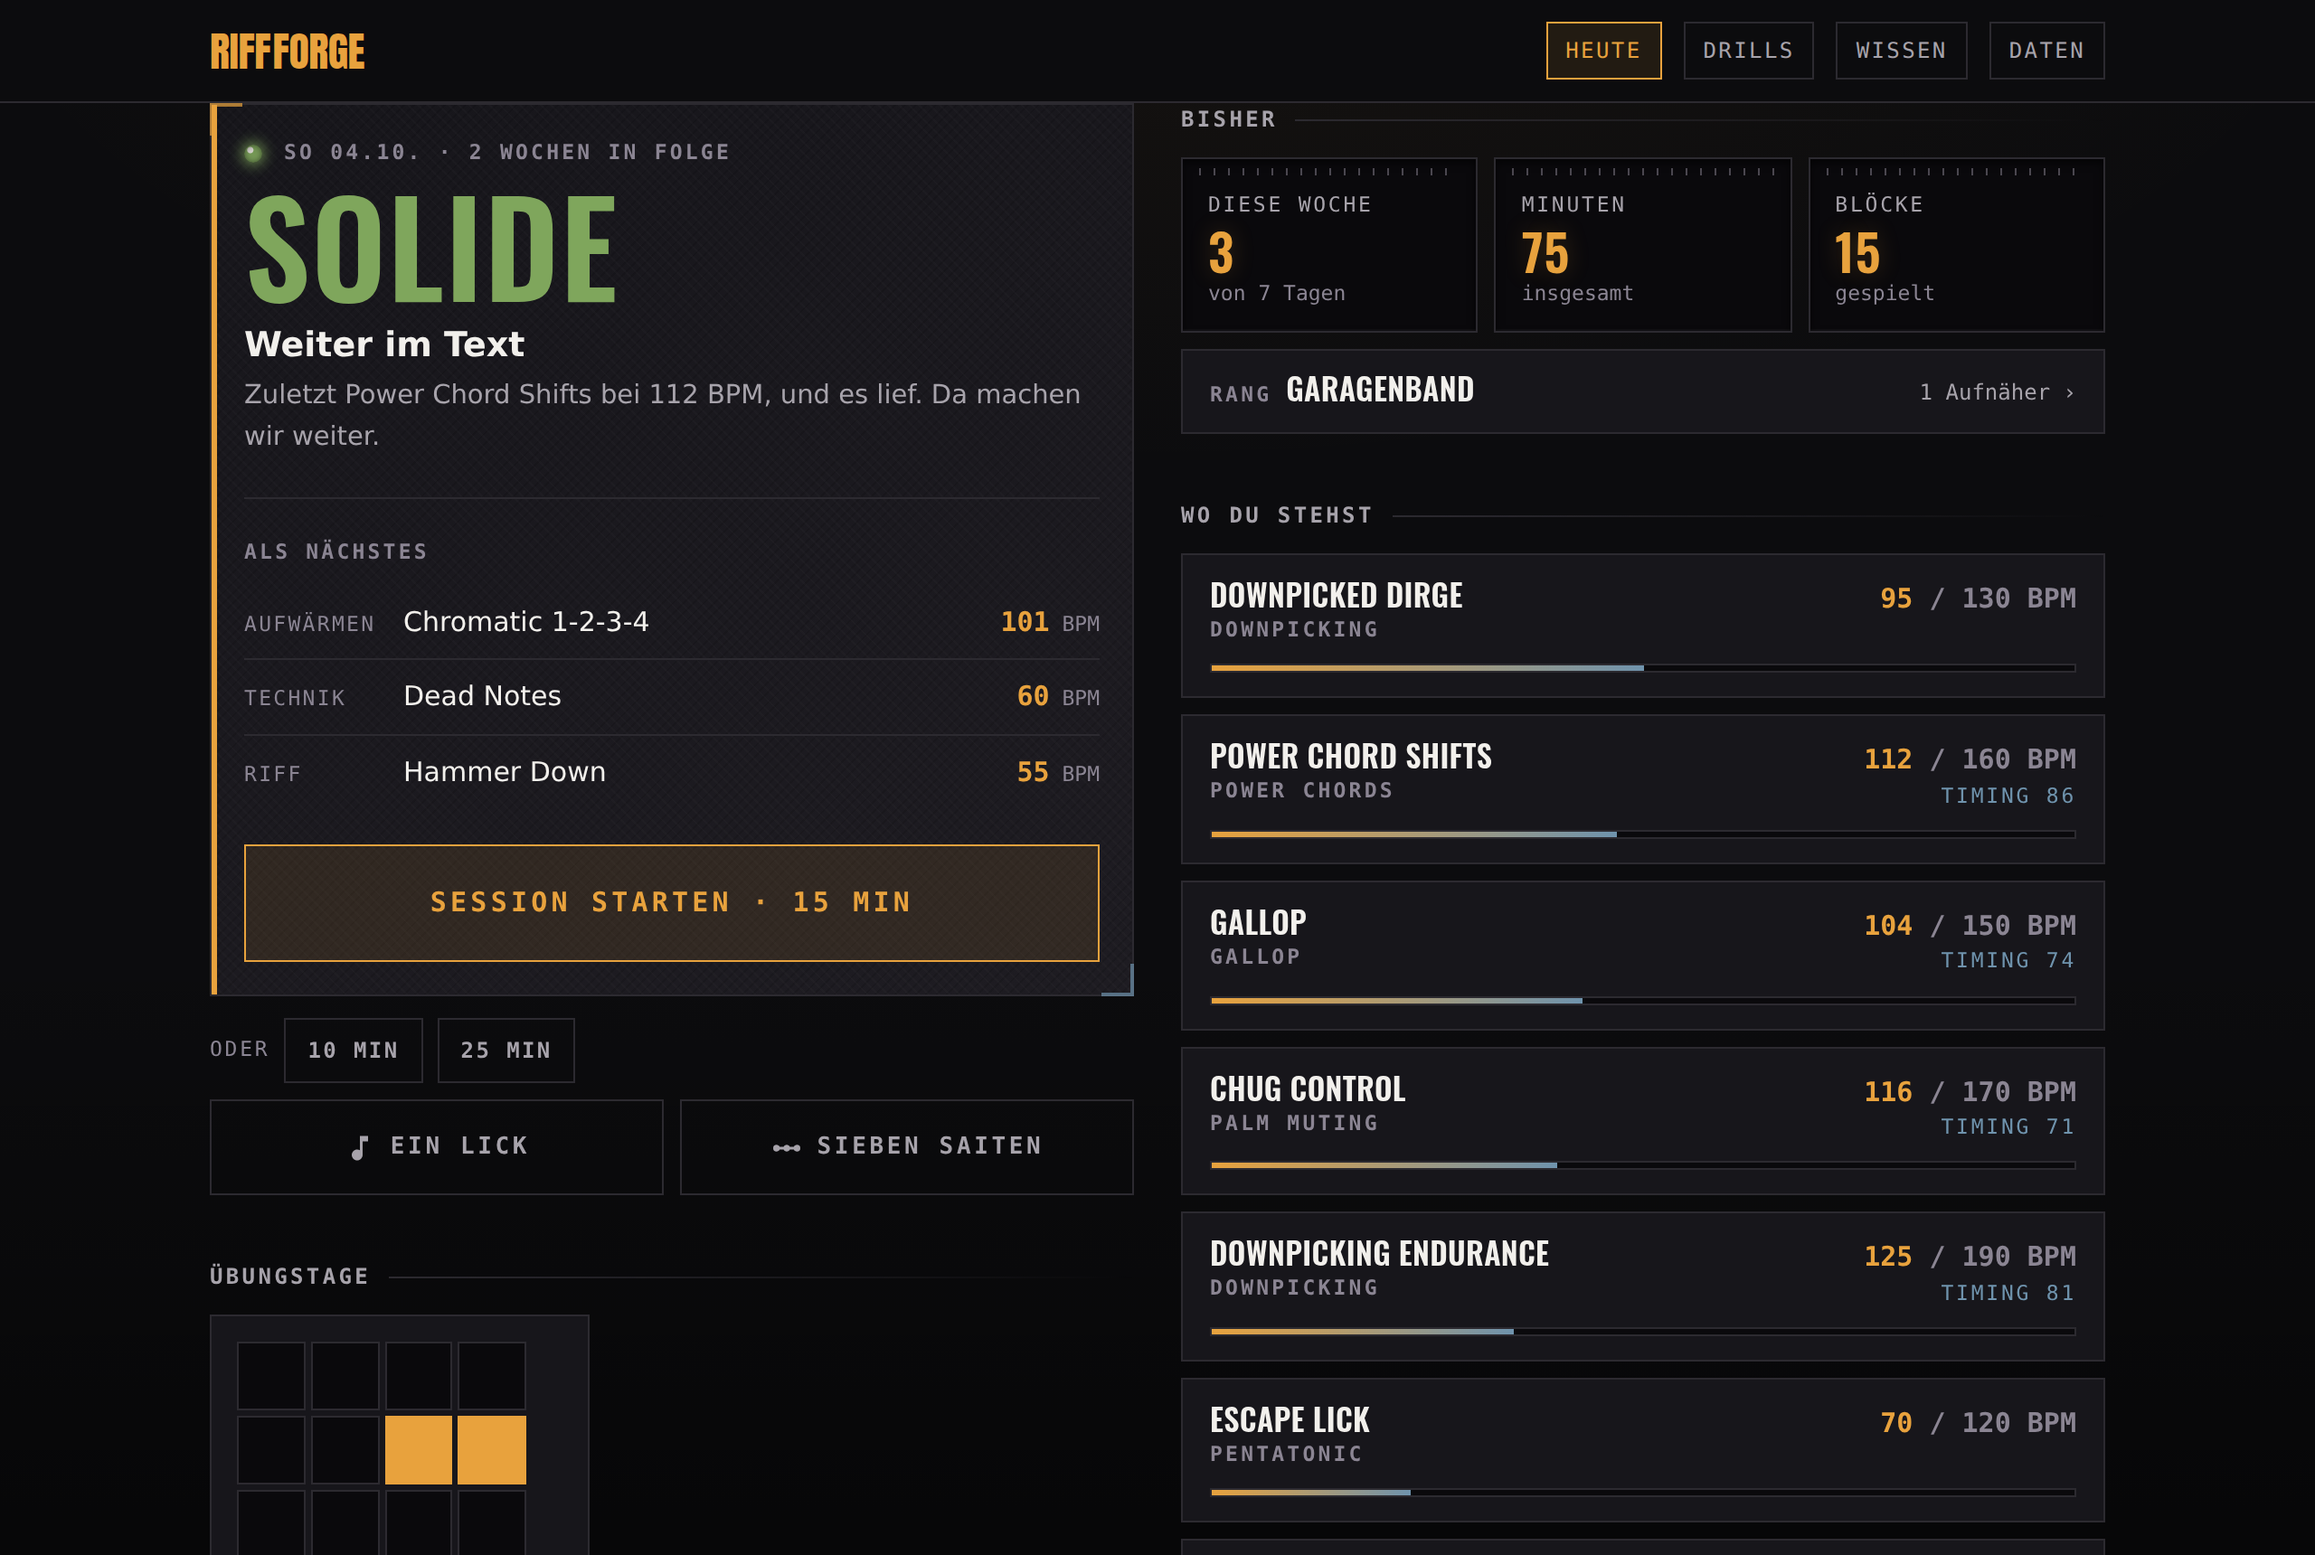
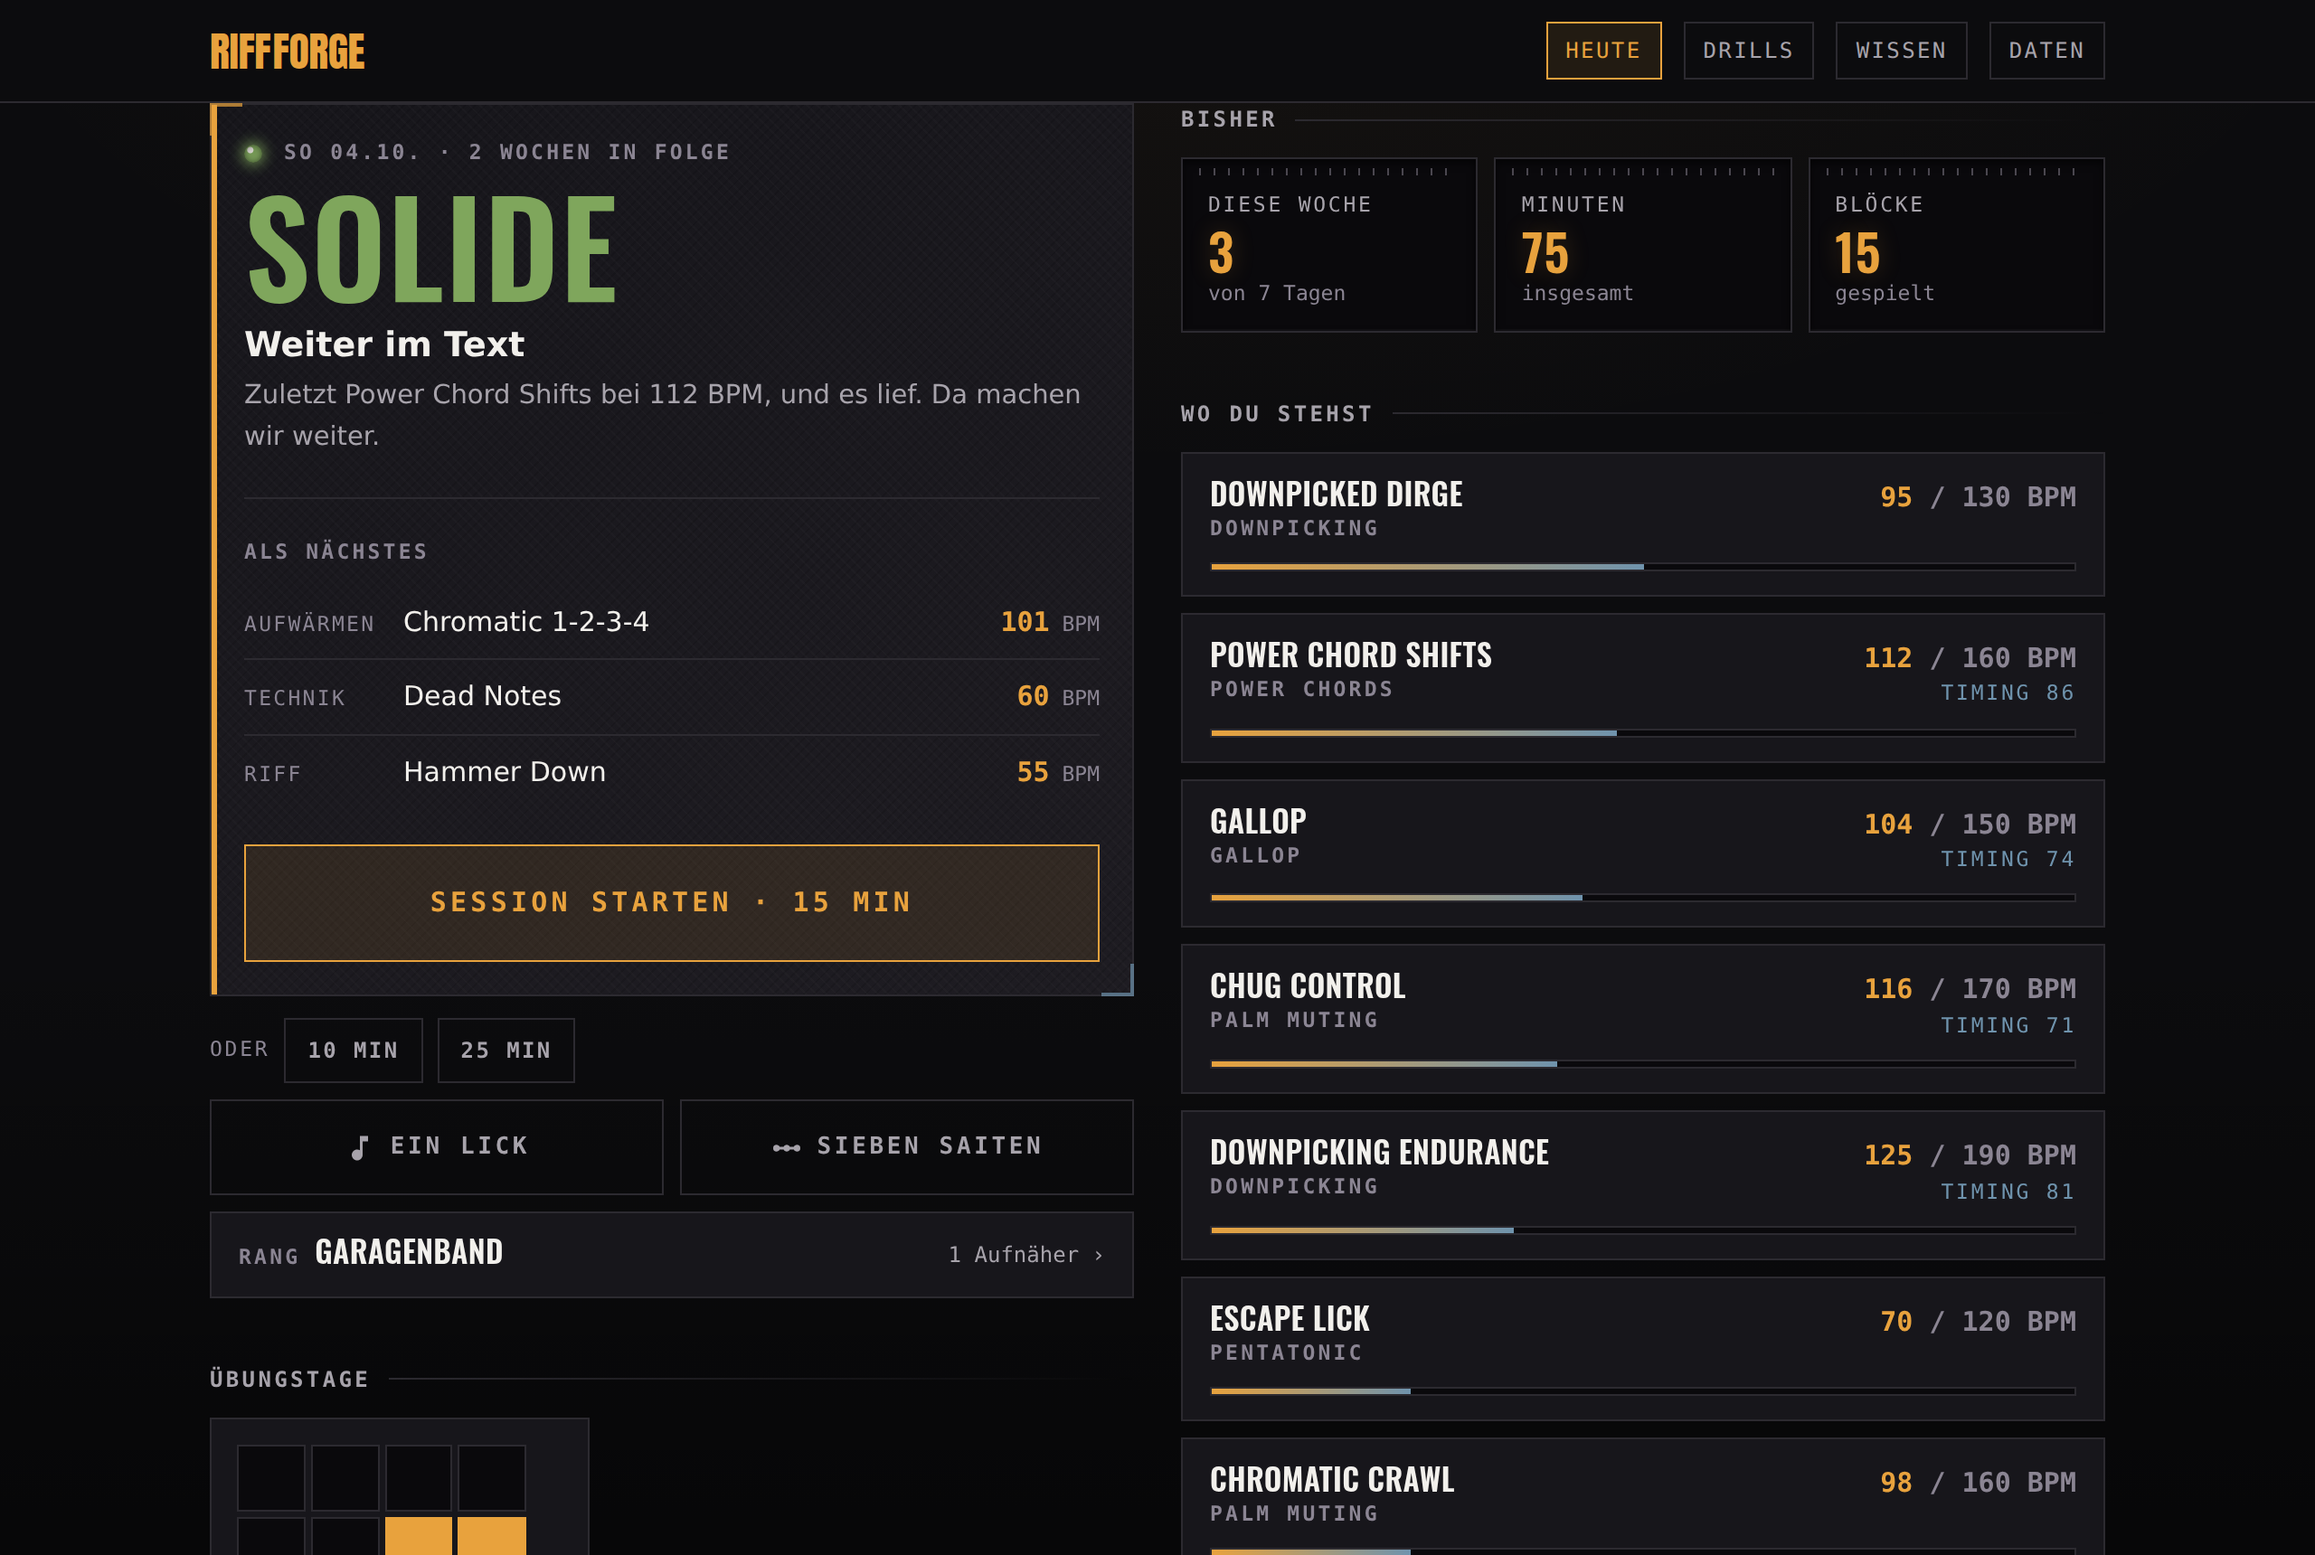
Der Merch-Eingang rückt nach oben — auf dem Handy war er unsichtbar
Daniel: „Auf mobile sehe ich merch nicht." Die Rang-Zeile stand in der
rechten Spalte unter *Bisher*. Auf dem breiten Schirm ist das nah am
Startknopf; auf dem Handy stapelt `.zwei-spalten` die rechte Spalte unter den
Übungskalender, und die Zeile lag über tausend Pixel tief.

Jetzt steht sie in der linken Spalte direkt unter den Nebenwegen *Ein Lick*
und *Sieben Saiten*. Gemessen: auf 390 × 844 bei y = 706, also ohne
Scrollen sichtbar; auf 1440 px an derselben Stelle wie vorher in der Nähe.
Antippen führt in beiden Breiten zum Merch-Stand. Querlauf und Winkel auf
allen acht Seiten bei 320/390/1280 px sauber.

Die Lehre steht in CLAUDE.md: was auf dem Handy gesehen werden soll, gehört
in die linke Spalte. README-Bilder neu aufgenommen.

Claude-Session: https://claude.ai/code/session_012LvptsAaijysVFdLtB85w5

diff --git a/components/session/practice-overview.tsx b/components/session/practice-overview.tsx
@@ -193,6 +193,24 @@ export function PracticeOverview() {
         </Link>
       </div>
 
+      {/* Der Eingang zum Merch-Stand: eine Zeile unter den Nebenwegen, kein
+          zweites Plakat. Er stand zuerst in der rechten Spalte unter *Bisher*
+          — auf dem Handy stapelt die sich unter den Kalender, und die Zeile
+          lag über tausend Pixel tief, wo niemand hinscrollt. Hier steht sie
+          in beiden Breiten gleich nah am Startknopf. */}
+      {hasHistory && merch && (
+        <Link
+          href="/merch"
+          className="mt-[9px] flex items-center justify-between gap-3 border border-line bg-panel px-[15px] py-3 transition-colors hover:border-akzent"
+        >
+          <span className="flex items-baseline gap-2">
+            <span className="kicker text-dim">Rang</span>
+            <span className="display text-[17px] text-fg">{merch.rang.titel}</span>
+          </span>
+          <span className="ziffern text-[12px] text-muted">{merch.aufnaeher} Aufnäher ›</span>
+        </Link>
+      )}
+
         {hasHistory && (
           <>
             <h2 className="rule mb-3 mt-9">Übungstage</h2>
@@ -211,23 +229,6 @@ export function PracticeOverview() {
             <Stat value={log.results.length} label="Blöcke" sub="gespielt" />
           </div>
 
-          {/* Der Eingang zum Merch-Stand: eine Zeile, kein zweites Plakat.
-              Der Rang ändert sich in Wochen, nicht täglich — er braucht hier
-              keinen grösseren Platz. */}
-          {merch && (
-            <Link
-              href="/merch"
-              className="mt-[9px] flex items-center justify-between gap-3 border border-line bg-panel px-[15px] py-3 transition-colors hover:border-akzent"
-            >
-              <span className="flex items-baseline gap-2">
-                <span className="kicker text-dim">Rang</span>
-                <span className="display text-[17px] text-fg">{merch.rang.titel}</span>
-              </span>
-              <span className="ziffern text-[12px] text-muted">
-                {merch.aufnaeher} Aufnäher ›
-              </span>
-            </Link>
-          )}
 
           {tracked.length > 0 && (
             <>

diff --git a/CLAUDE.md b/CLAUDE.md
@@ -313,7 +313,11 @@ Komponente.
   Gerät nicht hat (eine Siebensaitige), fehlt auf der Kutte, statt als
   verfehlt dazustehen. Neu Verdientes ist die Differenz zweier voller Läufe,
   vorher und nachher, damit die zweite Session am selben Tag nichts doppelt
-  feiert.
+  feiert. Der Eingang, die Rang-Zeile, steht auf *Heute* unter den
+  Nebenwegen in der **linken** Spalte. Zuerst stand er rechts unter *Bisher*
+  — und `.zwei-spalten` stapelt die rechte Spalte auf dem Handy unter den
+  Kalender: über tausend Pixel tief, und Daniel hat ihn dort nicht gefunden.
+  Was auf dem Handy gesehen werden soll, gehört in die linke Spalte.
 - **Die Serie zählt Wochen.** In Tagen riss sie nach einem verpassten Abend,
   und wer einmal gerissen ist, hat einen Grund weniger, morgen anzufangen.
   `streakWeeks` zählt Wochen mit mindestens einer Session; die laufende Woche
